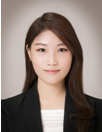
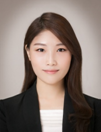
today up

diff --git a/index.html b/index.html
@@ -213,14 +213,14 @@
       </div>
       <div class="row">
         <div class="col-lg-4 ml-auto text-center">
-          <img class="rounded-circle" src="img/selfie.png" alt="박현정사진">
+          <img class="rounded-circle mt-5" src="img/selfie.png" alt="박현정사진">
         </div>
         <div class="col-lg-4 ml-auto text-center">
-          <i class="fas fa-phone fa-3x mb-5 text-muted"></i>
+          <i class="fas fa-phone fa-3x mb-5 mt-5 text-muted"></i>
           <div>+82 (10) 4284-0909</div>
         </div>
         <div class="col-lg-4 mr-auto text-center">
-          <i class="fas fa-envelope fa-3x mb-5 text-muted"></i>
+          <i class="fas fa-envelope fa-3x mb-5 mt-5 text-muted"></i>
           <!-- Make sure to change the email address in anchor text AND the link below! -->
           <a class="d-block" href="mailto:contact@yourwebsite.com">w19910909@gmail.com</a>
         </div>
